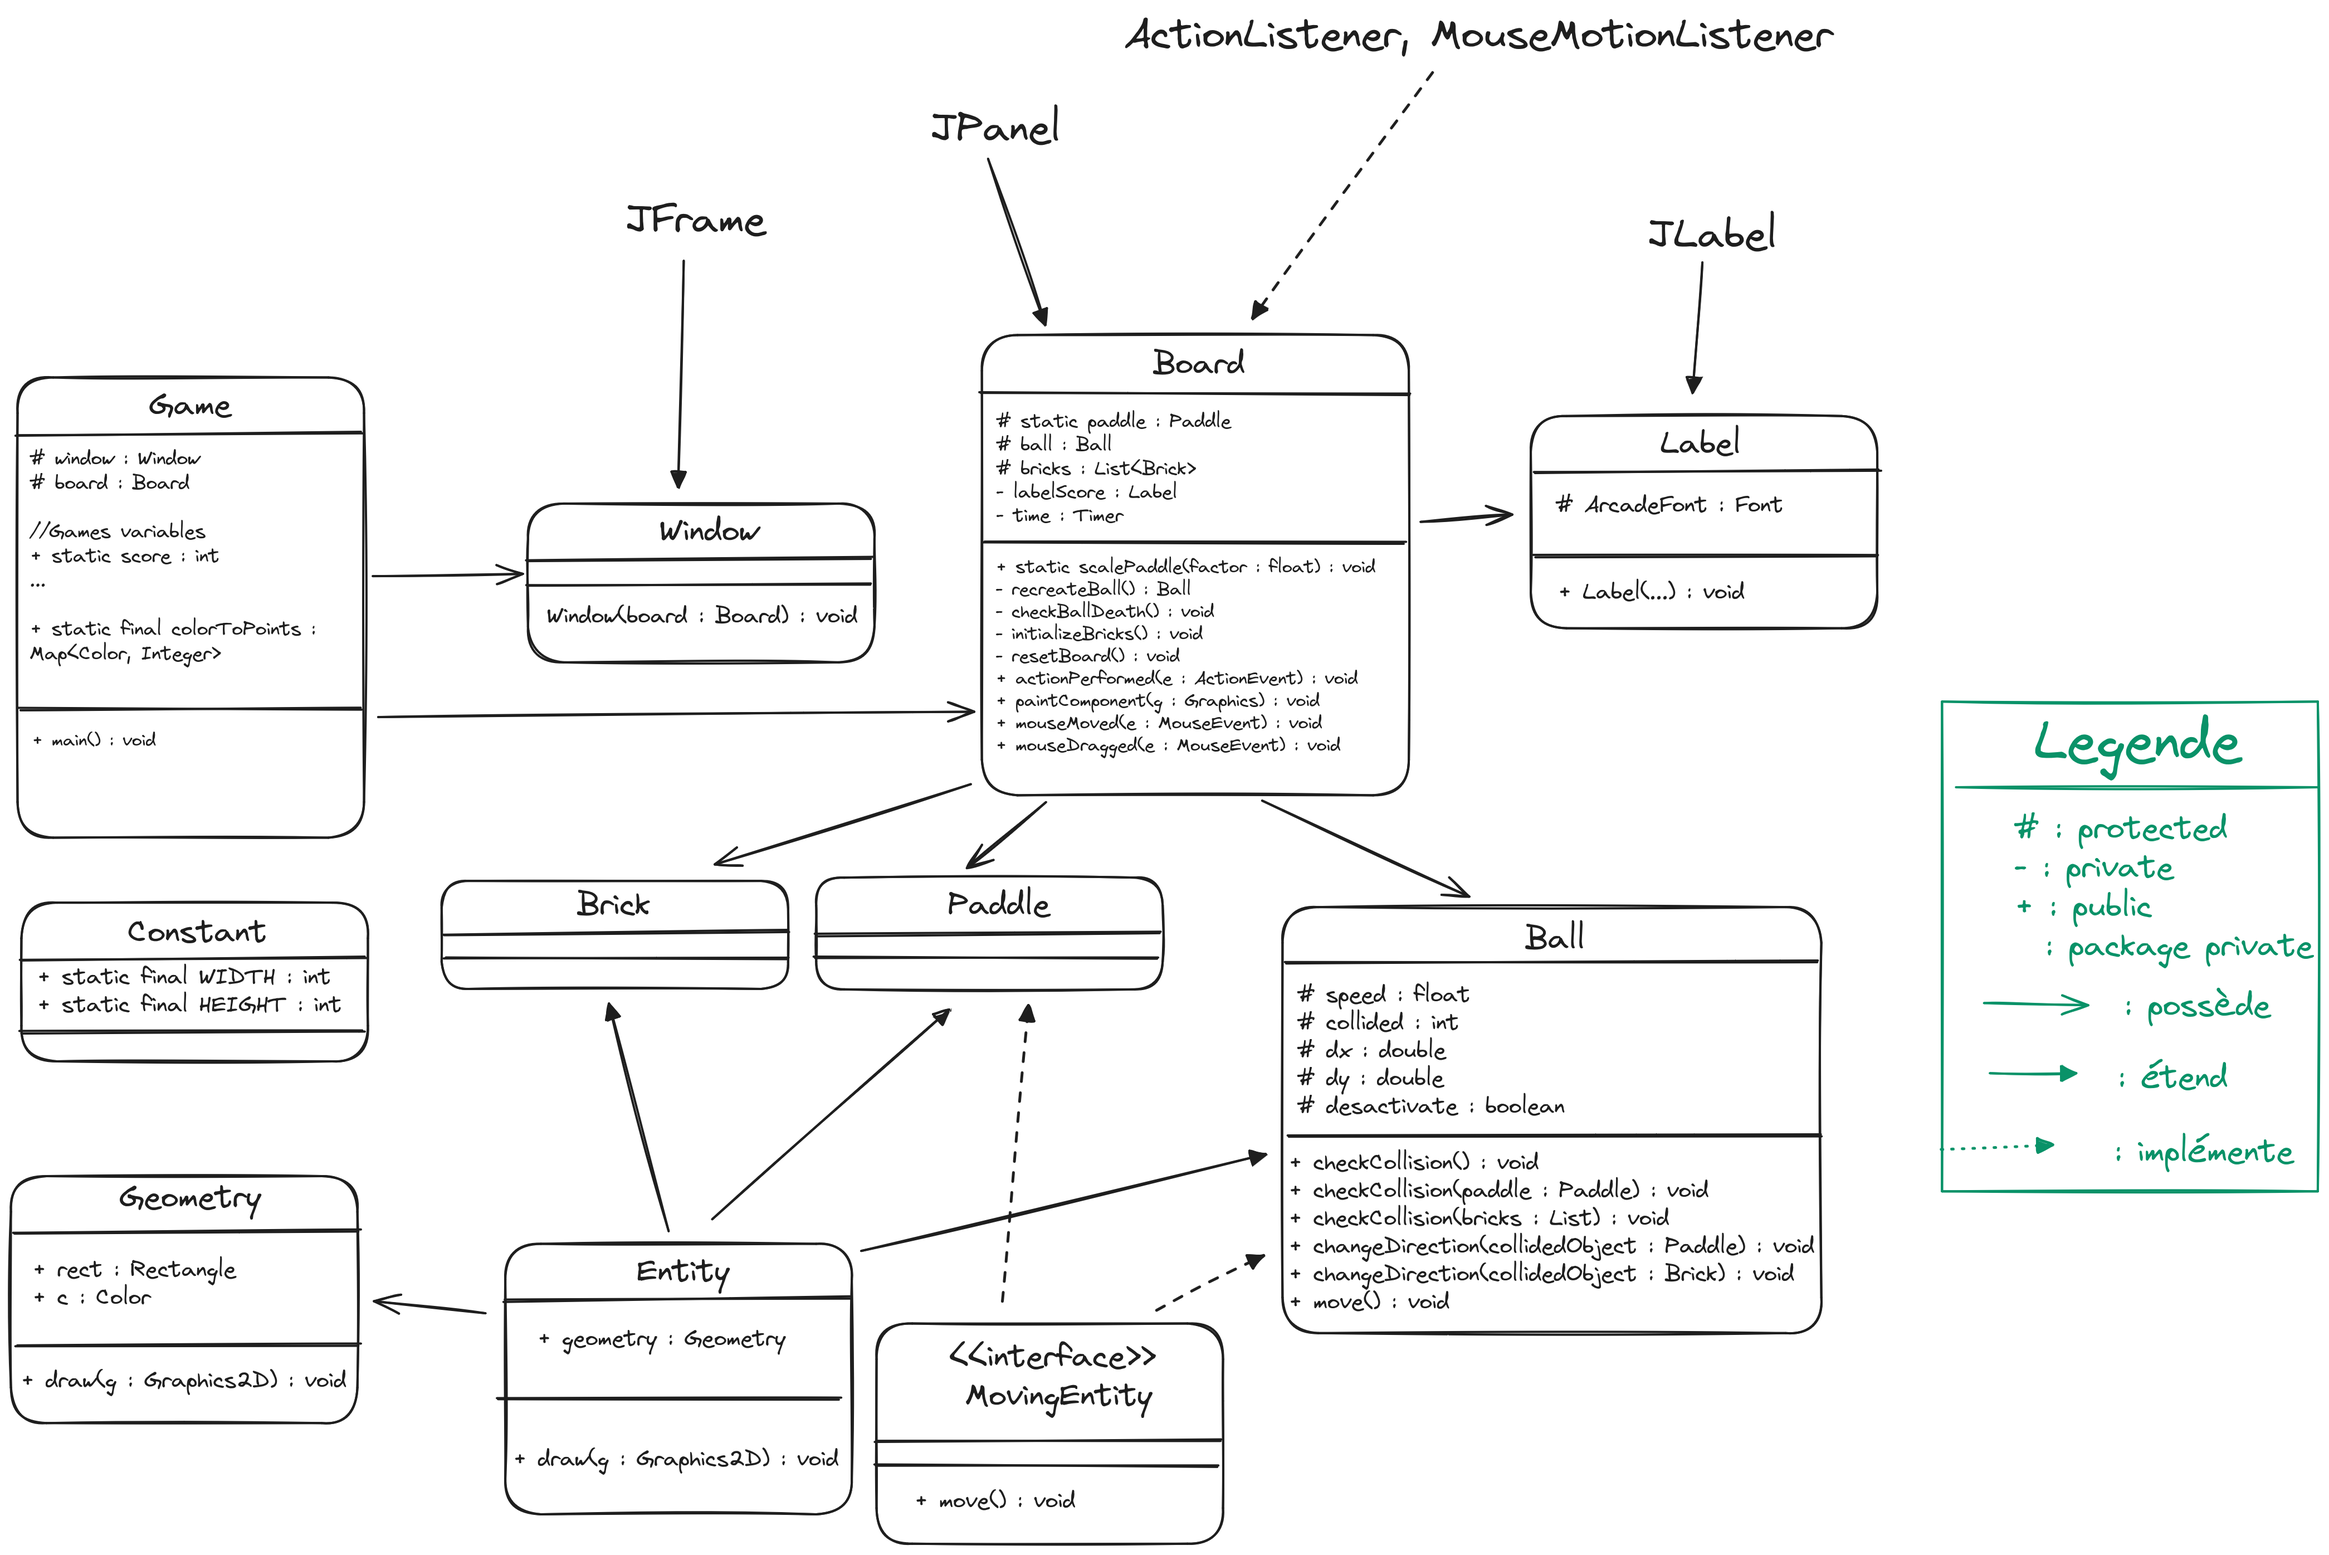
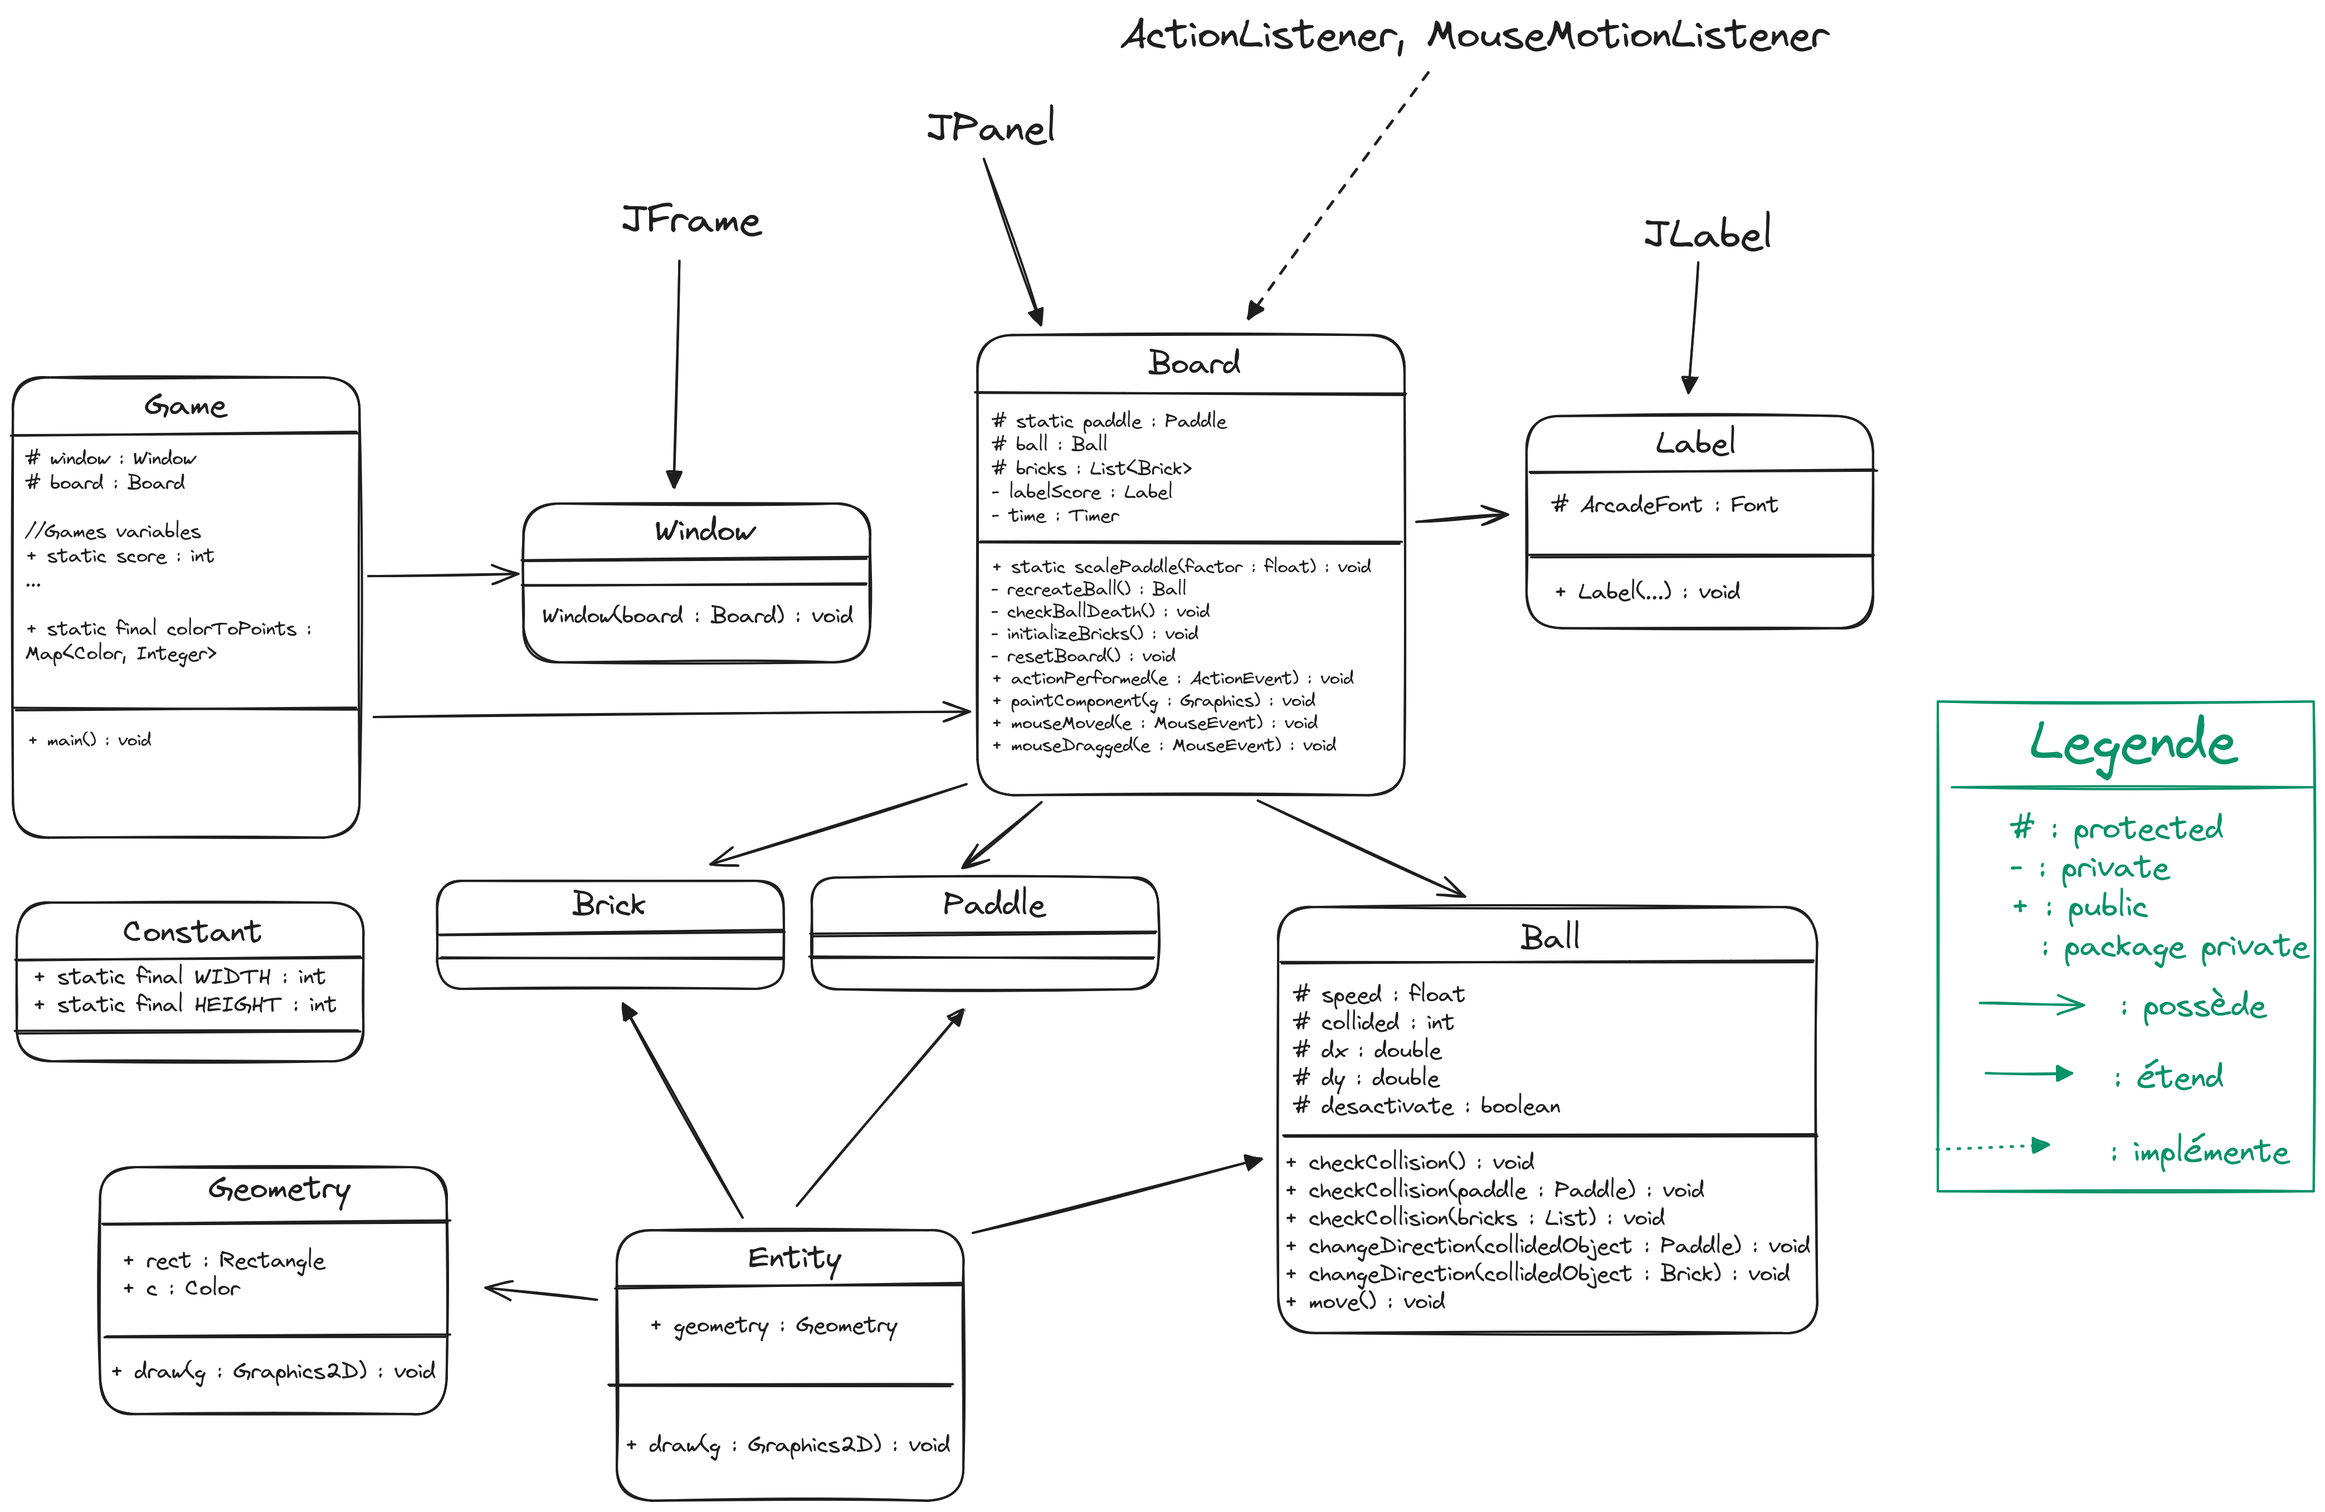
removing useless interface

diff --git a/src/entities/Paddle.java b/src/entities/Paddle.java
@@ -2,7 +2,6 @@ package src.entities;
 
 import src.visuals.Geometry;
 
-// Paddle doesnt implement MovingEntity because it has a special way of moving using mouse event.
 public class Paddle extends Entity {
   public Paddle(int x, int y, Geometry geometry) {
     super(x, y, geometry);

diff --git a/src/entities/Ball.java b/src/entities/Ball.java
@@ -7,7 +7,7 @@ import src.visuals.Geometry;
 import src.main.*;
 import src.utils.*;
 
-public class Ball extends Entity implements MovingEntity {
+public class Ball extends Entity {
   protected float speed;
   protected int collided;
   protected double dx;

diff --git a/README.md b/README.md
@@ -47,7 +47,6 @@ make run
     │   ├── Ball.java
     │   ├── Brick.java
     │   ├── Entity.java
-    │   ├── MovingEntity.java
     │   └── Paddle.java
     ├── main                    # main package (intelligence haut niveau, création de la fenetre, instanciation des objets...)
     │   ├── Board.java
